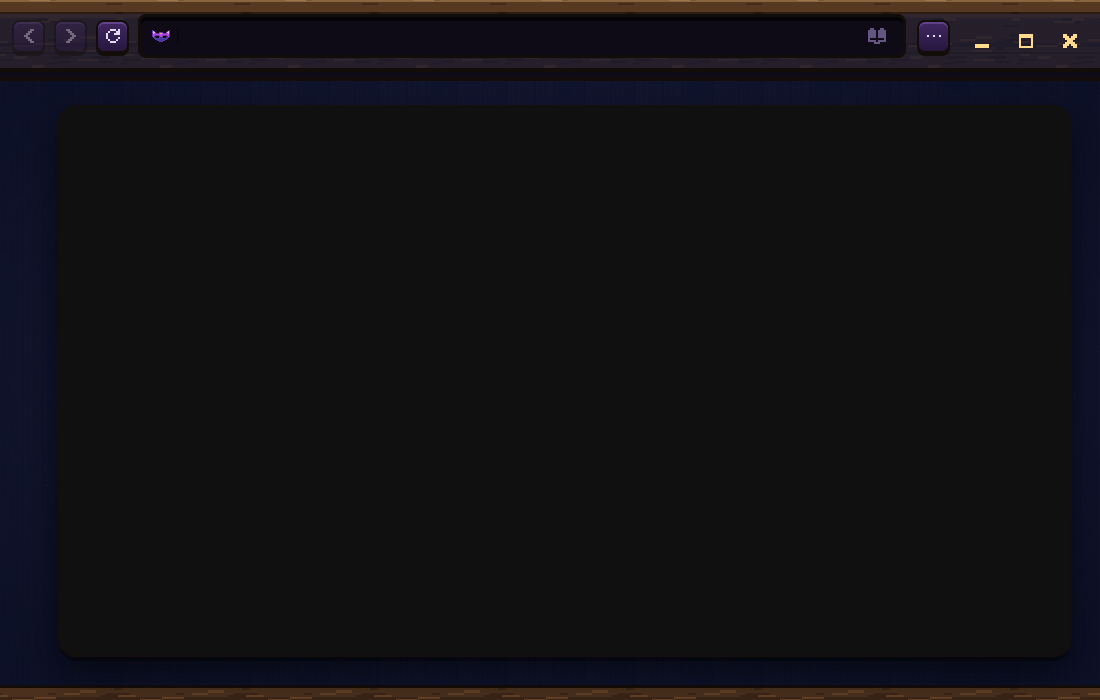
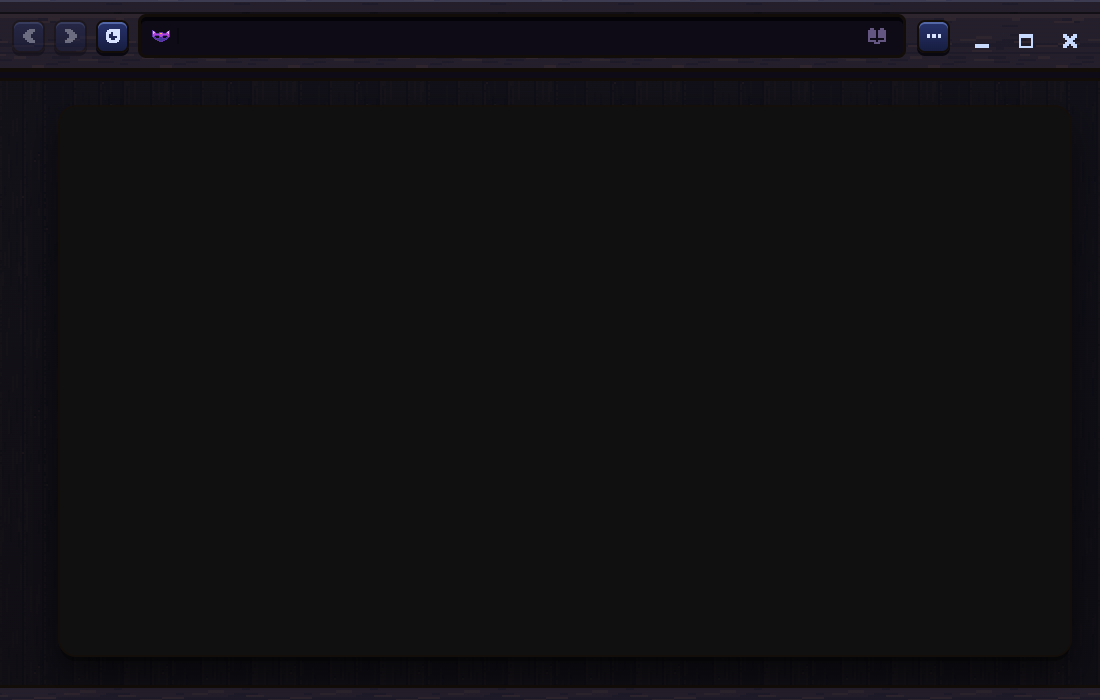
Sheet 87 v10: the secret window fully at night, the mask by the tabs, trails and children as normal

Changed region(s): [[0.0, 0.96, 1.0, 1.0], [0.0, 0.0, 1.0, 0.06]]

diff --git a/src/Shell/test/electron/private-drawer-shot.ts b/src/Shell/test/electron/private-drawer-shot.ts
@@ -16,16 +16,39 @@ app.on('window-all-closed', () => {});
 BrowserWindow.prototype.show = function (this: BrowserWindow) { this.setOpacity(0); this.showInactive(); };
 BrowserWindow.prototype.focus = function () {};
 const wait = (ms: number) => new Promise((r) => setTimeout(r, ms));
-// The night, set on elements (Samara's pages allow no added style sheets), and Samara's masquerade (sheet 87).
-const NIGHT = `(() => {
-  const night = 'linear-gradient(rgba(10,20,60,.6),rgba(10,20,60,.6))';
-  const tint = (sel) => document.querySelectorAll(sel).forEach((e) => { const cs = getComputedStyle(e); if (!cs.backgroundImage || cs.backgroundImage === 'none') return;
-    e.style.setProperty('background-image', night + ',' + cs.backgroundImage, 'important');
-    e.style.setProperty('background-size', 'auto,' + cs.backgroundSize, 'important'); e.style.setProperty('background-position', '0 0,' + cs.backgroundPosition, 'important');
-    e.style.setProperty('background-repeat', 'repeat,' + cs.backgroundRepeat, 'important'); });
-  ['.bw', '.band', '.drawer', '.tabpanel', '.body3'].forEach(tint);
-  document.querySelectorAll('.pg3').forEach((e) => e.style.setProperty('background', '#0e0e10', 'important'));
-  return 1; })()`;
+// v10 (his "the full night style, not the brown bar at the top"): the secret window's whole skin, written as the styles
+// it would ship with (html.secret in browser.css): moonlit navy wood everywhere, silver for what was gold, no brown left.
+const SECRET_CSS = `
+html.secret{--night:linear-gradient(rgba(10,20,60,.62),rgba(10,20,60,.62))}
+html.secret .band{background:var(--night),url(art/browser/band.png) repeat-x 0 14px/128px 58px !important}
+html.secret .band::before{background:var(--night),url(art/browser/band.png) repeat-x 0 -8px/128px 58px !important;filter:none !important;
+  box-shadow:inset 0 2px 0 rgba(180,200,255,.18),inset 0 -2px 0 rgba(0,0,0,.5) !important}
+html.secret:not(.solo) .bw::after{background:var(--night),url(art/browser/band.png) repeat-x 0 -20px/128px 58px !important}
+html.secret .bw{background:linear-gradient(rgba(6,10,30,.72),rgba(4,6,20,.78)),url(art/browser/tray.png) 0 0/128px 256px !important}
+html.secret .body3{background:none !important}
+html.secret .pg3{background:#0e0e10 !important}
+html.secret .rnd{background:linear-gradient(180deg,#2c3a78,#18204a) !important;color:#dce6ff !important;box-shadow:0 3px 0 #05030c,inset 0 2px 0 rgba(160,190,255,.4) !important}
+html.secret .rnd svg *{stroke:#dce6ff;fill:#dce6ff}
+html.secret .wk svg path{fill:#cfe0ff !important}
+html.secret .drawer{background-image:var(--night),url(art/browser/tray.png) !important}
+html.secret .drawer .tabpanel{background:radial-gradient(120% 40% at 50% 0%,rgba(170,200,255,.10),transparent 60%),linear-gradient(rgba(4,8,30,.55),rgba(4,8,30,.6)),url(art/browser/tray.png) 0 0/128px 256px !important;
+  box-shadow:inset 0 0 0 4px #1c2346,inset 0 0 0 5px #05030c,inset 0 7px 12px rgba(0,0,0,.5),0 3px 0 #02020a !important}
+html.secret .drawer .shelf-bk{box-shadow:inset 0 0 0 4px #1c2346,inset 0 0 0 5px #05030c,inset 0 7px 12px rgba(0,0,0,.5),0 3px 0 #02020a !important}
+html.secret .drawer .tabpanel::after,html.secret .shelf-bk::after{filter:grayscale(1) brightness(1.2) sepia(.25) hue-rotate(185deg)}
+html.secret .drawer .ptitle{color:#d6e2ff !important}
+html.secret .drawer .ptitle::after{background:linear-gradient(180deg,rgba(0,0,0,.6) 0 2px,rgba(170,200,255,.22) 2px 4px) !important}
+html.secret .drawer .tp{color:#e4eaff !important;background:linear-gradient(180deg,#323c6e 0,#252d58 45%,#1d2448 100%) !important;
+  box-shadow:0 4px 0 #05030c,inset 0 3px 0 rgba(180,200,255,.22),inset 0 -2px 0 rgba(0,0,0,.35) !important}
+html.secret .drawer .tp.on{background:linear-gradient(180deg,#e6edff,#aebce4) !important;color:#141a38 !important;text-shadow:0 1px 0 rgba(255,255,255,.55) !important}
+html.secret .drawer .tp .fi.letter,html.secret .drawer .tp .w{color:#cfe0ff !important}
+html.secret .tp.kid::before{border-color:rgba(170,200,255,.35) !important}
+html.secret .drawer .newtab{color:#e4eaff !important}
+html.secret .drawer .th{color:#dce6ff !important}
+html.secret .drawer .th .n{color:#9fb0d8 !important}
+html.secret .drawer .th::after{background:linear-gradient(180deg,rgba(0,0,0,.6) 0 2px,rgba(170,200,255,.22) 2px 5px) !important}
+html.secret .bm-add{border-color:rgba(190,210,255,.45) !important;color:#dce6ff !important}
+html.secret .drawer,html.secret .drawer *{scrollbar-color:#3a4880 transparent !important}
+`;
 const HALF = ['o........', 'oLo......', 'oLLo...oo', 'oLPPoooPG', 'oPPPPPPPP', 'oPPooooPP', 'oPo....oP', '.ono...on', '..onoooon', '...oonnnn', '.....ooon', '.......oo'];
 const COL: Record<string, string> = { o: '#6a3fb0', L: '#f0b4ff', P: '#c04ee0', n: '#4a46a0', G: '#FFC43C' };
 const MASK = HALF.map((r) => r + [...r].reverse().join(''));
@@ -49,11 +72,13 @@ app.whenReady().then(async () => {
   b.tray(true, { x: 42, y: 62, hy: 80 }); await wait(1500); b.tray(true, { x: 42, y: 62, hy: 80 }); await wait(2500);
   const out = process.argv[process.argv.length - 1];
   const fw = b.win.webContents, tw = b.trayV.webContents;
-  await fw.executeJavaScript(NIGHT);
+  await fw.insertCSS(SECRET_CSS); await fw.executeJavaScript(`document.documentElement.classList.add('secret'); 1`);
   await fw.executeJavaScript(`(() => { const slot = document.getElementById('slot'); const m = document.createElement('span'); m.innerHTML = ${JSON.stringify(maskSvg)};
     Object.assign(m.style, { display: 'grid', placeItems: 'center', paddingRight: '9px', marginRight: '1px', position: 'relative', flex: 'none' });
     const n = document.createElement('i'); Object.assign(n.style, { position: 'absolute', right: '0', top: '50%', width: '2px', height: '16px', marginTop: '-8px', background: '#05030c' }); m.append(n); slot.prepend(m); return 1; })()`);
-  await tw.executeJavaScript(NIGHT);
+  await tw.insertCSS(SECRET_CSS); await tw.executeJavaScript(`document.documentElement.classList.add('secret'); 1`);
+  // the mask by his tabs: before the TABS title
+  await tw.executeJavaScript(`(() => { const t = document.querySelector('.tabpanel .ptitle'); const m = document.createElement('span'); m.innerHTML = ${JSON.stringify(maskSvg)}; m.style.display = 'grid'; t.prepend(m); return 1; })()`);
   // v9 (his "its own space its own set of bookmarks its own private history"): the secret list has its own Bookmarks
   // (empty at first), its Tabs, and a History panel under them.
   // The secret history: a third panel in the Tabs panel's own frame, the newest first, when on the right.
@@ -63,12 +88,14 @@ app.whenReady().then(async () => {
     for (const [l, n, w] of [['R', 'Reddit - Popular', '2m'], ['G', 'Inbox - Gmail', '1h'], ['T', 'sweetdreams - Twitch', 'Yesterday']]) {
       const r = document.createElement('div'); r.className = 'tp sleep'; r.innerHTML = '<span class="fi letter"></span><span class="t"></span><span class="w"></span>';
       r.querySelector('.fi').textContent = l; r.querySelector('.t').textContent = n; const ws = r.querySelector('.w'); ws.textContent = w;
-      Object.assign(ws.style, { font: '600 11px Figtree, sans-serif', color: '#b9a684', marginLeft: '6px', flex: 'none' }); p.append(r); }
+      Object.assign(ws.style, { font: '600 11px Figtree, sans-serif', marginLeft: '6px', flex: 'none' }); p.append(r); }
     src.after(p); return 1; })()`);
   await wait(600);
   writeFileSync(`${out}-list.png`, (await tw.capturePage()).toPNG());
+  writeFileSync(`${out}-frame.png`, (await fw.capturePage()).toPNG());
   // ⇧⌘N: a blank night page, nothing of his in the address.
   await fw.executeJavaScript(`(() => { for (const id of ['url', 'lock']) document.getElementById(id)?.style.setProperty('visibility', 'hidden', 'important'); return 1; })()`);
+  await wait(600);
   writeFileSync(`${out}-blank.png`, (await fw.capturePage()).toPNG());
   console.log('TRAY ' + JSON.stringify(b.trayV.getBounds()) + ' FRAME ' + JSON.stringify(b.win.getContentBounds()));
   app.exit(0);

diff --git a/docs/cockpit/sheet-87-private-window.html b/docs/cockpit/sheet-87-private-window.html
@@ -24,7 +24,11 @@
      list asks its own PIN (4 to 8). Then its own bookmarks, tabs, history and logins, all kept; tabs come back where he left
      them; pages opened before the PIN join them. History: a panel in the list AND address suggestions, only after the PIN.
      Locks when the window closes, the Mac sleeps or locks, or after 15 minutes away. No sign of it in normal Samara.
-     Downloads to his normal Downloads. Not scrambled on disk (his call). Forgot the PIN: the Mac's own password box resets it. -->
+     Downloads to his normal Downloads. Not scrambled on disk (his call). Forgot the PIN: the Mac's own password box resets it.
+     v10 (his "the mask icon near my tabs", "the full night style not the brown bar at the top", "the entire way tabs
+     function now nothing should be different"): the whole skin at night (moonlit navy wood, silver for gold, no brown),
+     drawn by real styles on Samara itself (html.secret, in test/electron/private-drawer-shot.ts until it is built); the
+     mask by the TABS title; trails and children exactly as in normal Samara. -->
 <link rel="stylesheet" href="../../src/Shell/pages/cockpit.css">
 <style>
   html,body{background:#17110c;margin:0}
@@ -58,19 +62,16 @@
 <h1>SHEET 87 - THE SECRET WINDOW</h1>
 <p class="lead">A second browser inside Samara, all its own: bookmarks, tabs, history and logins. Your tab list opens only with your PIN. Normal Samara shows no sign of it.</p>
 
-<h2>1 · THE SECRET WINDOW'S BAND</h2>
-<div class="frame"><iframe src="../../src/Shell/pages/browser.html" data-night data-url="search.brave.com"></iframe></div>
-
-<h2>2 · ⇧⌘N: A BLANK NIGHT PAGE</h2>
+<h2>1 · ⇧⌘N: A BLANK NIGHT PAGE</h2>
 <p class="sub">Nothing of yours shows. You can browse right away, logged out.</p>
 <div class="win"><img src="art/sheet87-blank.png" width="1100" height="700" alt=""></div>
 
-<h2>3 · OPEN YOUR TAB LIST: YOUR PIN, ON SCREEN</h2>
+<h2>2 · OPEN YOUR TAB LIST: YOUR PIN, ON SCREEN</h2>
 <div class="win"><img src="art/sheet87-blank.png" width="1100" height="700" alt=""><div class="dim"></div>
   <div class="pinask" style="left:50%"><div data-mask="3"></div><div class="lights"><i class="f"></i><i class="f"></i><i></i><i></i></div></div></div>
 
-<h2>4 · RIGHT PIN: YOUR SECRET SPACE</h2>
-<p class="sub">Its own bookmarks, its own tabs right where you left them, and its own history.</p>
+<h2>3 · RIGHT PIN: YOUR SECRET SPACE</h2>
+<p class="sub">Its own bookmarks, its own tabs right where you left them, and its own history. Trails and tabs inside tabs work exactly like normal Samara.</p>
 <div class="win"><img src="art/sheet87-frame.png" width="1100" height="700" alt=""><img class="list" src="art/sheet87-list.png" alt=""></div>
 <ul class="steps">
   <li>Its own PIN, 4 to 8 long. It can match your autofill PIN or not. Forgot it? Your Mac password resets it.</li>
@@ -79,9 +80,10 @@
   <li>The address bar suggests from your secret history, only after the PIN.</li>
   <li>Locks when the window closes, the Mac sleeps or locks, or after 15 minutes away.</li>
   <li>Downloads go to your normal Downloads.</li>
+  <li>Tabs work the same as everywhere in Samara: trails, dragging, and a link opened in a new tab sits under the tab it came from.</li>
 </ul>
 
-<h2>5 · THE MASK, 8 TIMES BIGGER</h2>
+<h2>4 · THE MASK, 8 TIMES BIGGER</h2>
 <div class="maskbig" data-maskbig></div>
 
 <script>
